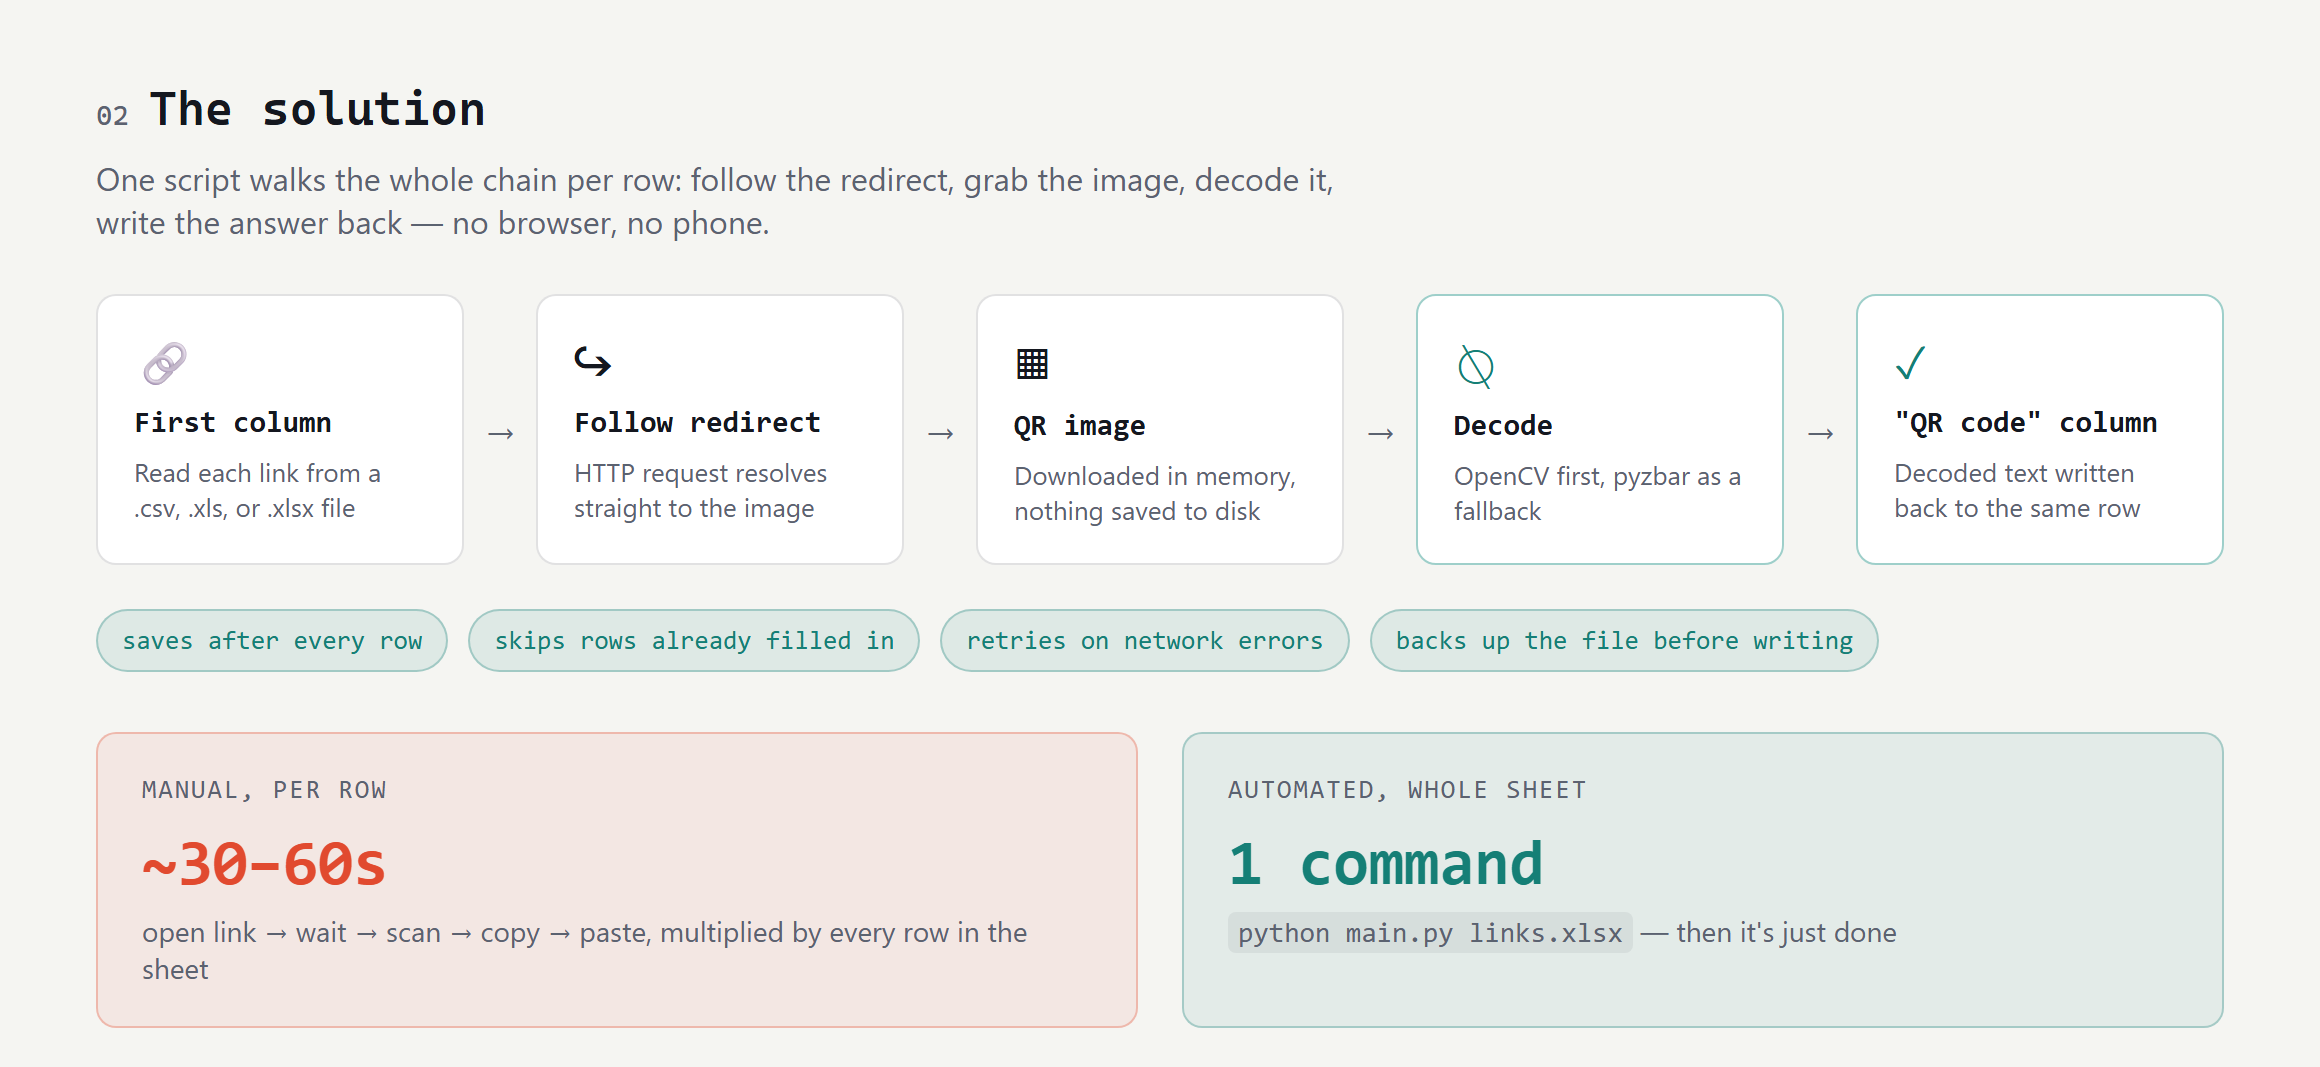
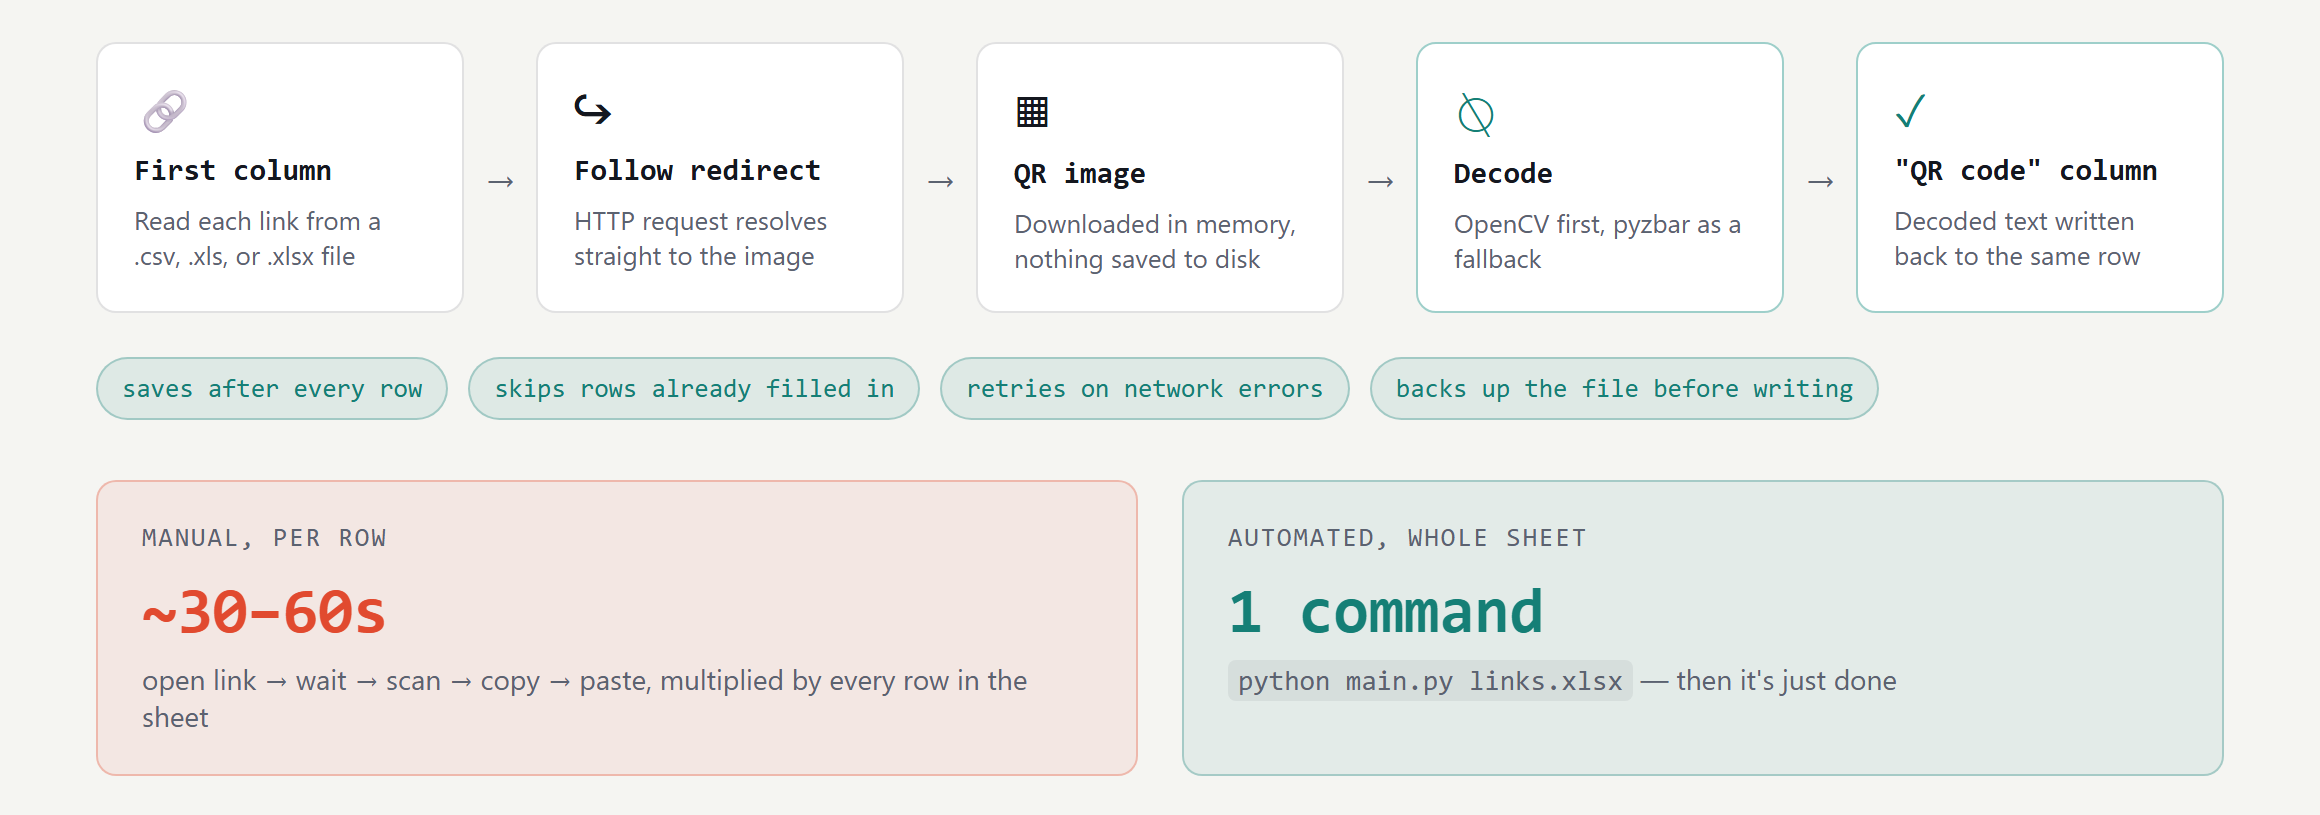
update readme assets image

diff --git a/README.md b/README.md
@@ -20,6 +20,10 @@ Works with `.csv`, `.xls`, and `.xlsx` files.
 
 <img src="assets/solution.png" alt="The automated flow: first column, follow redirect, QR image, decode with OpenCV or pyzbar, write the result into the QR code column. Saves after every row, skips rows already filled in, retries on network errors, backs up the file before writing. Manual is 30 to 60 seconds per row; automated is one command for the whole sheet.">
 
+## The solution
+
+One script walks the whole chain per row: follow the redirect, grab the image, decode it, write the decode text back - bo browser, no phone.
+
 ## Install
 
 ```bash
